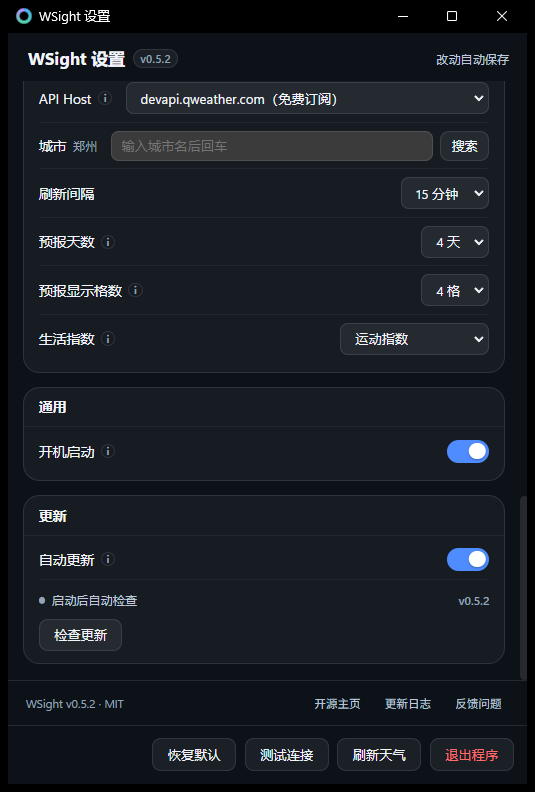
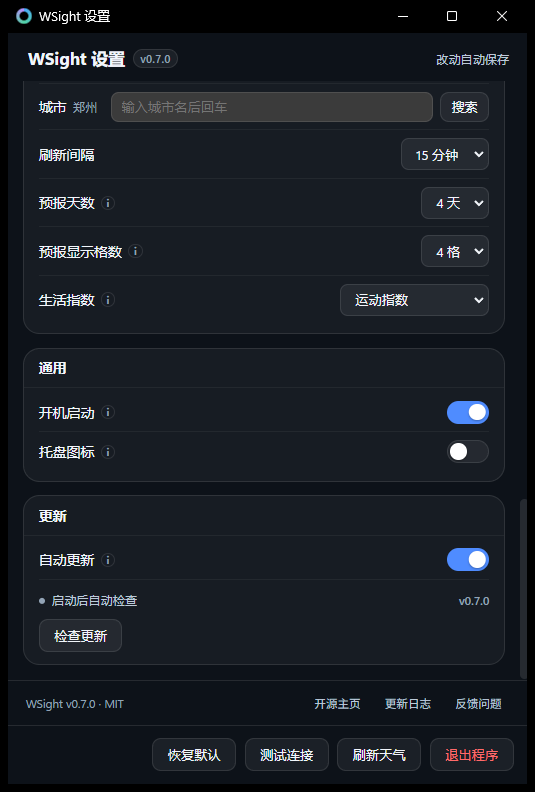
Update

diff --git a/src/shared/about.ts b/src/shared/about.ts
@@ -9,7 +9,7 @@
  */
 
 /** Semantic version of the app. Must match `tauri.conf.json`. */
-export const APP_VERSION = "0.6.0";
+export const APP_VERSION = "0.7.0";
 
 /** Public repository - the target of the "开源主页" button. */
 export const REPO_URL = "https://github.com/WW-Ares/WSight";

diff --git a/CHANGELOG.md b/CHANGELOG.md
@@ -1,5 +1,31 @@
 # Changelog
 
+## [0.7.0] - 2026-11-10
+
+### Fixed
+- **按 Win+D（显示桌面）时卡片不再消失，也不再闪。** 先说清它到底发生了什么：窗口从来没被隐藏过，
+  是 Windows 把「桌面」这个窗口抬到了所有普通窗口之上，把卡片**盖住**了。所以现在的做法是——发现
+  盖住自己的是桌面，就在同一刻把卡片临时提到置顶层；桌面一收回去，立刻落回最底层。抬高由前台窗口
+  事件驱动，不再等定时轮询，按下 Win+D 到卡片重新出现之间只剩两三帧。
+  - **恢复窗口时的那一下闪也一并修掉了。** 收起桌面时桌面窗口自己要从栈顶往下滑一段（约 110 ms），
+    原先卡片被压到全栈最底，会短暂跑到桌面**下面**，于是整块消失一帧。现在落点是「紧贴桌面上方」，
+    并在接下来约四分之一秒里跟着桌面一起下滑。
+- **不再被任务栏美化工具塞进任务栏。** 以前靠系统的「跳过任务栏」接口，那条记录会被重建任务栏的
+  第三方工具当成普通窗口加回去。现在改用窗口自身的「工具窗口」样式，不进任务栏、也不进 Alt+Tab。
+  附带修掉一个隐藏问题：切换过「调整」模式后，这个样式会被系统重置掉，卡片就又回到任务栏了。
+- **卡片被拖到屏幕外之后再也找不回来。** 位置记忆以前只检查窗口左上角在不在屏幕内，大半个身子探在
+  屏外也能通过，重启后发现"面板没了"。现在会按整窗夹进它重叠最多的那块显示器，保存的也是夹取后的
+  坐标；退出「调整」模式时如果卡片有大半在屏外，会直接拉回来（这是唯一能把它捡回来的时机）。
+
+### Added
+- 设置 →「通用」新增**「托盘图标」**开关：关掉后托盘里不再有图标，桌面上只留两个卡片。保险起见，
+  如果托盘图标关着、两个卡片又都隐藏了（这样桌面上就再也没有入口），图标会自动回来。
+- 托盘图标是隐藏而不是销毁，改动立即生效，不必重启。
+
+### Changed
+- **点击卡片不再抢焦点**。窗口平时带「不激活」样式，点它不会把你正在打字的窗口踢到后面；只有进入
+  「调整」模式时才允许取得键盘，用来做方向键微调。
+
 ## [0.6.0] - 2026-10-04
 
 ### Fixed
